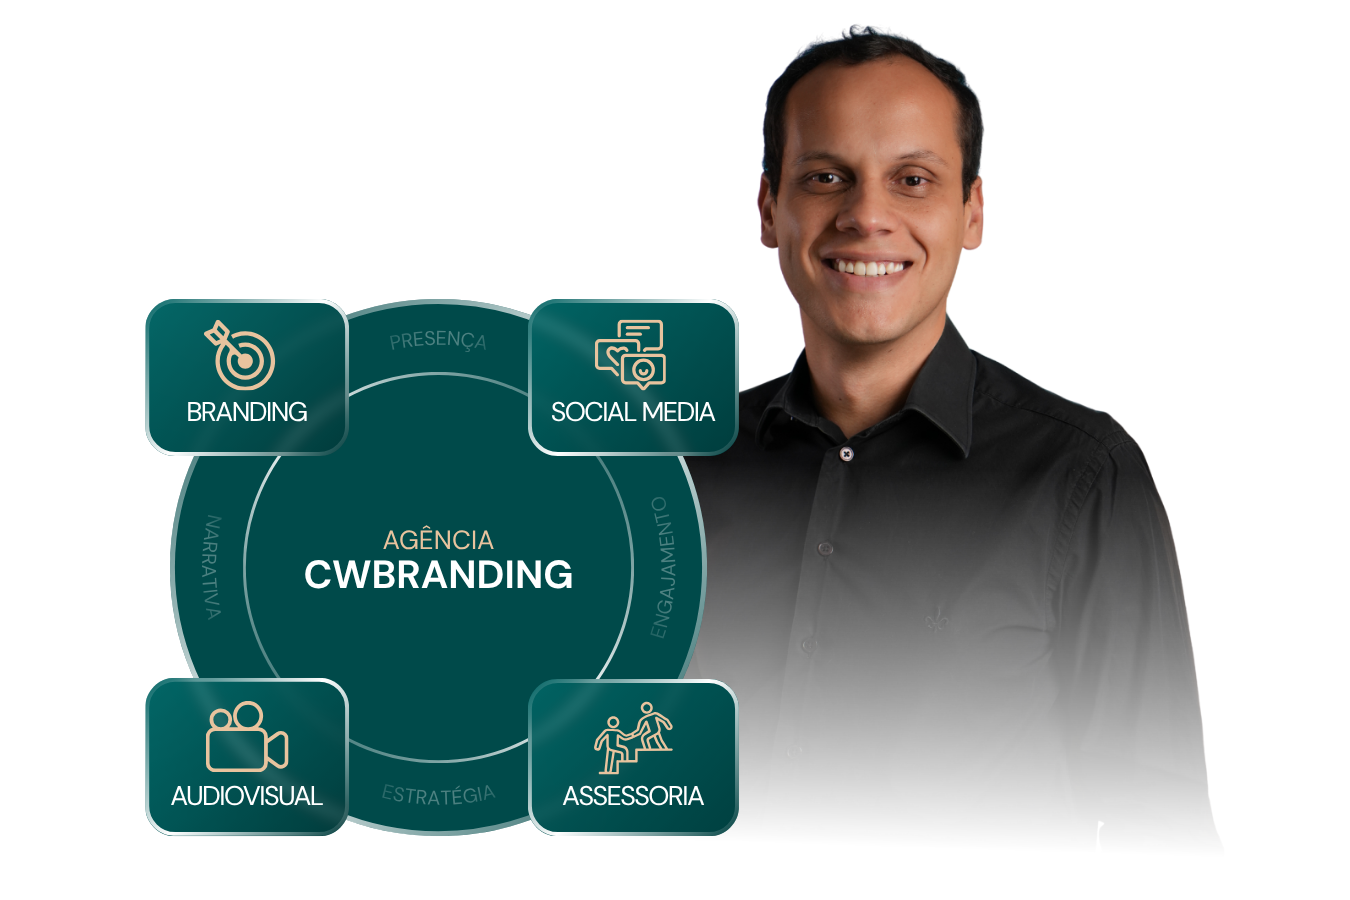
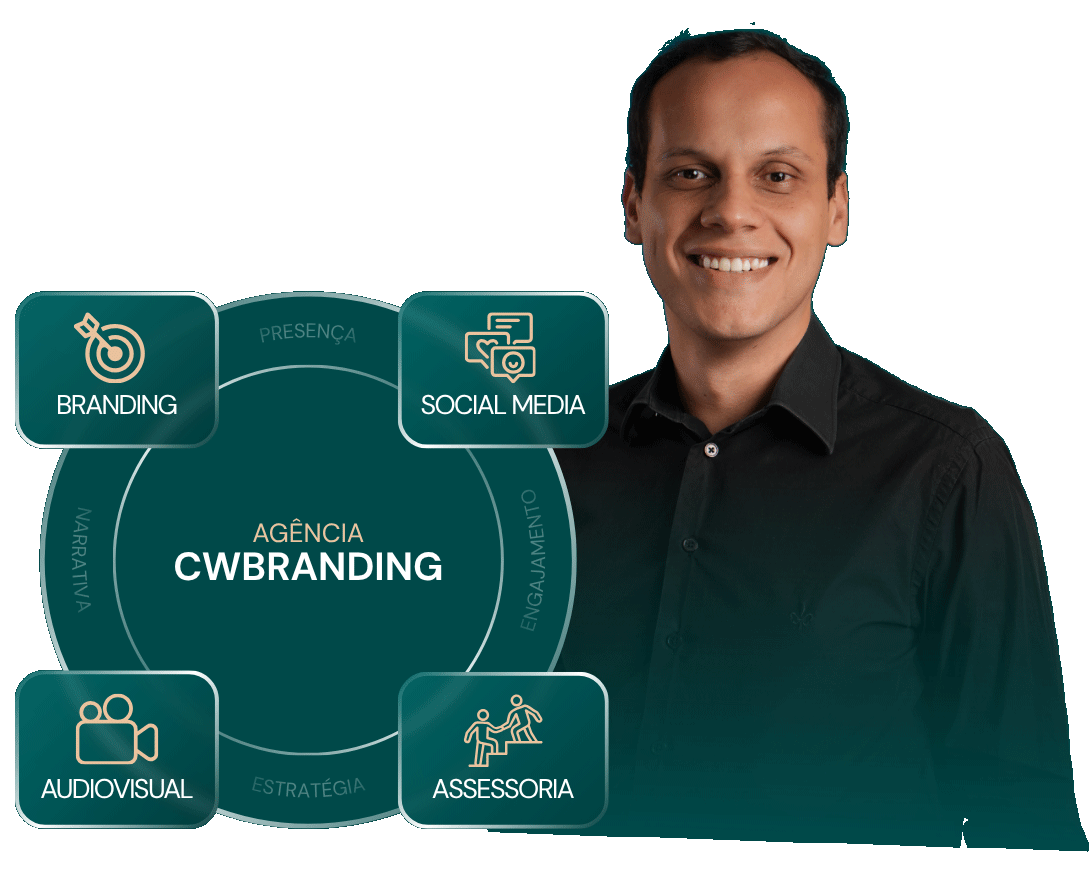
feat: new service alan image

diff --git a/app/components/ServiceSection.tsx b/app/components/ServiceSection.tsx
@@ -41,7 +41,7 @@ export function ServicesSection() {
             </div>
           </div>
 
-          <div className="flex h-[300px] w-full items-center justify-center md:h-[450px] lg:h-[620px] xl:h-[700px] lg:justify-end lg:w-[calc(100%+max(0px,(100vw-1600px)/2))]">
+          <div className="flex h-[300px] w-full items-center justify-center md:h-[450px] lg:h-[620px] xl:mr-64 xl:h-[700px] lg:justify-end lg:w-full mb-36">
             <img
               src="/cwbranding/servicos.png"
               alt="Processo Criativo CWBranding"
